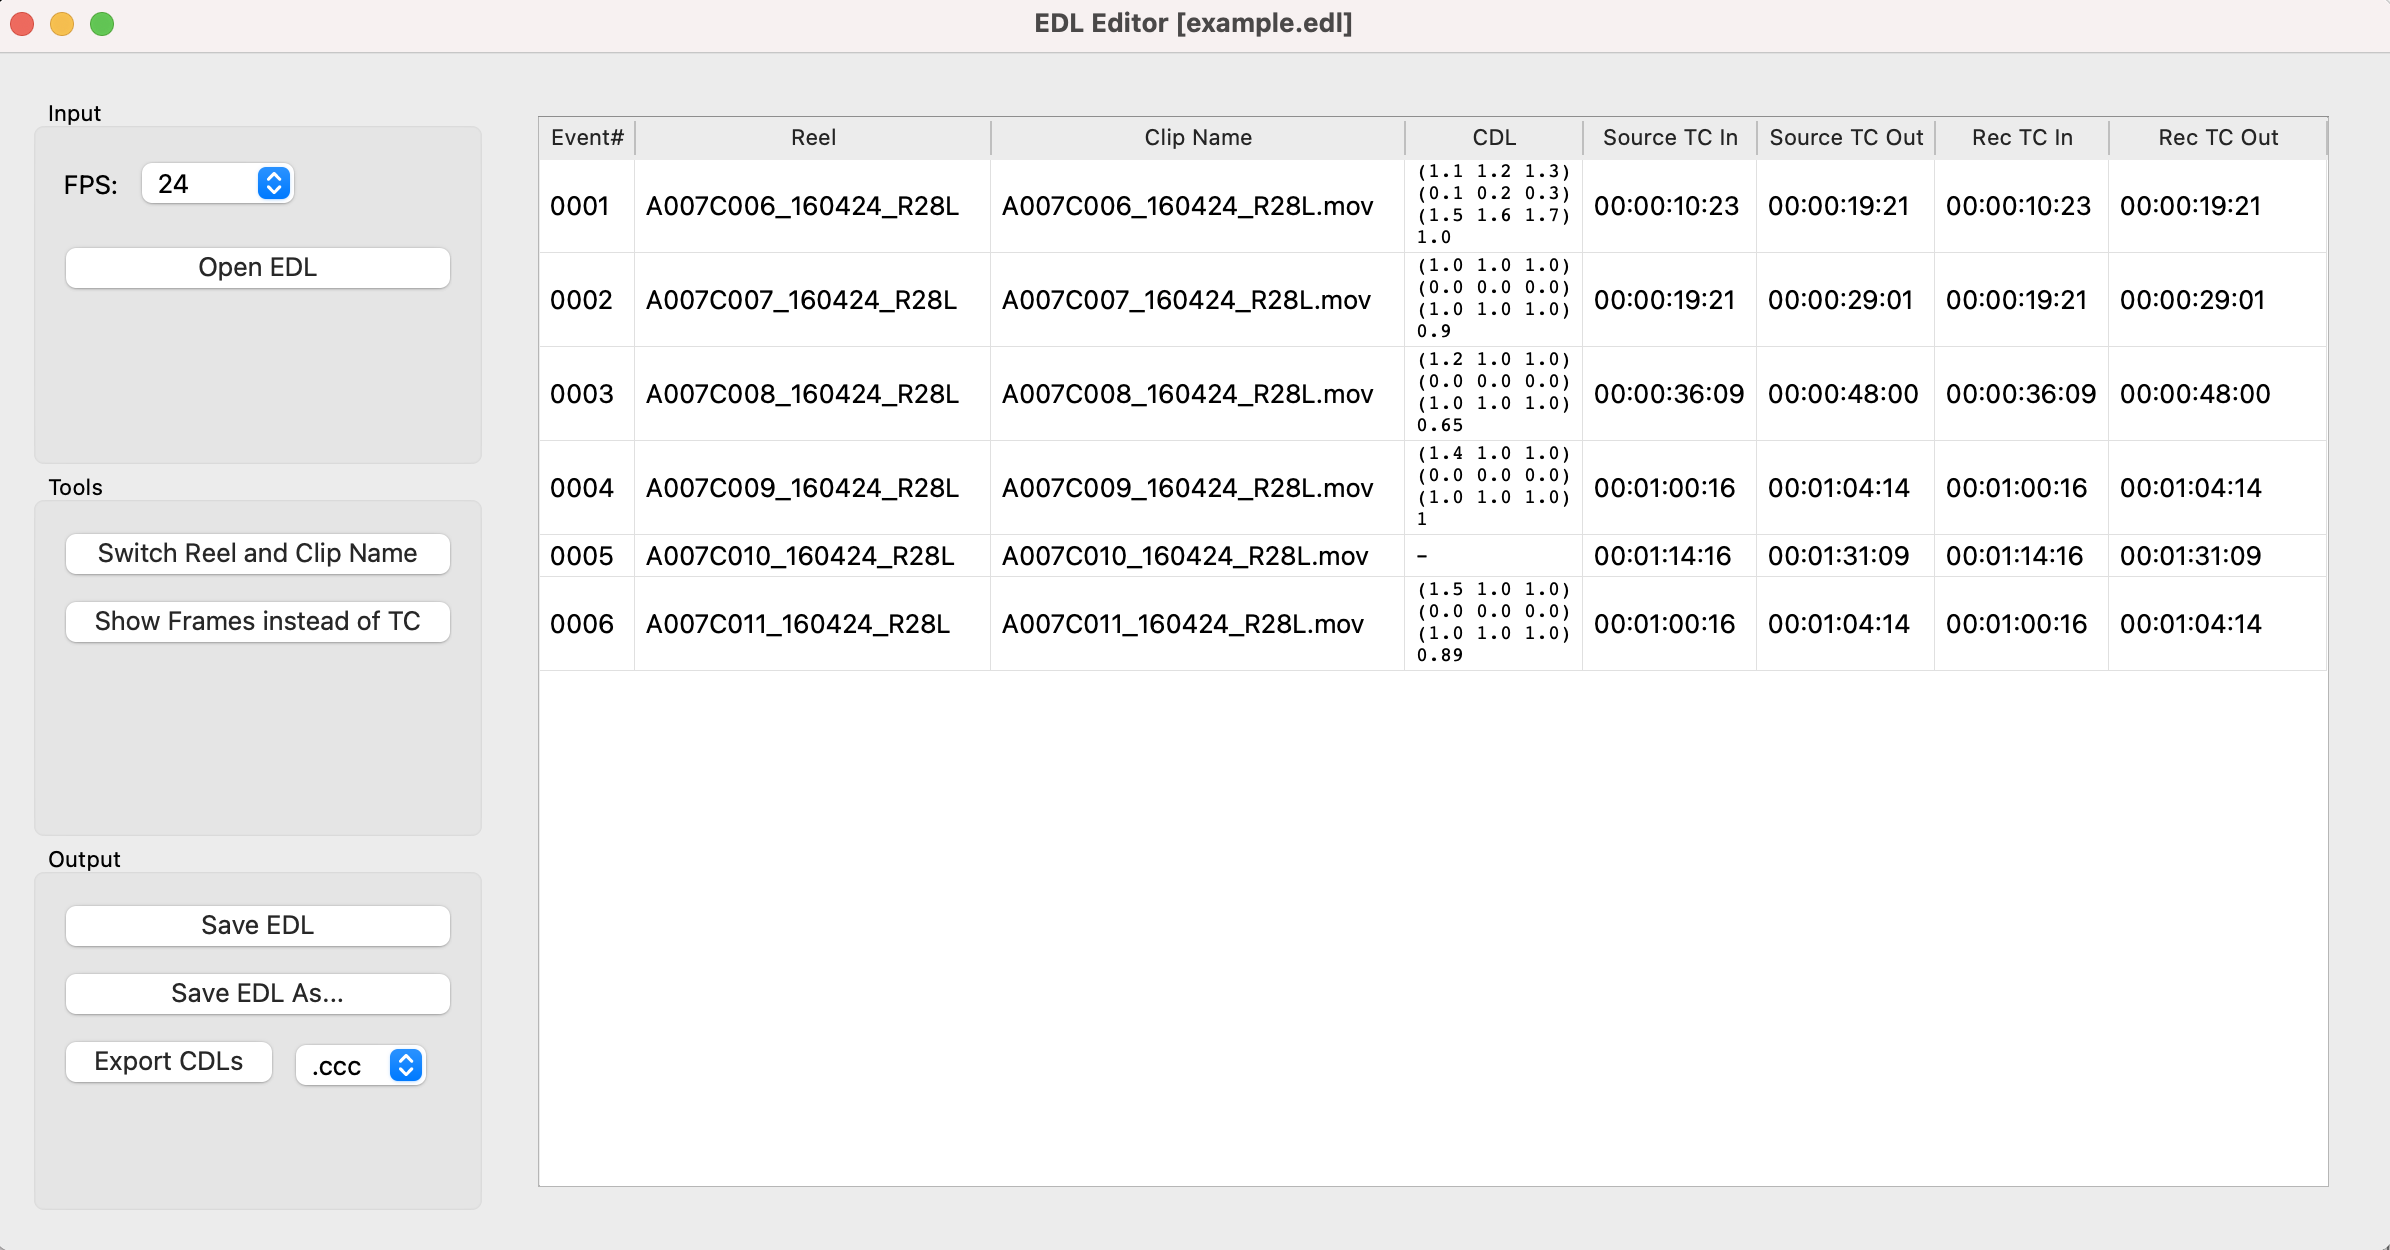
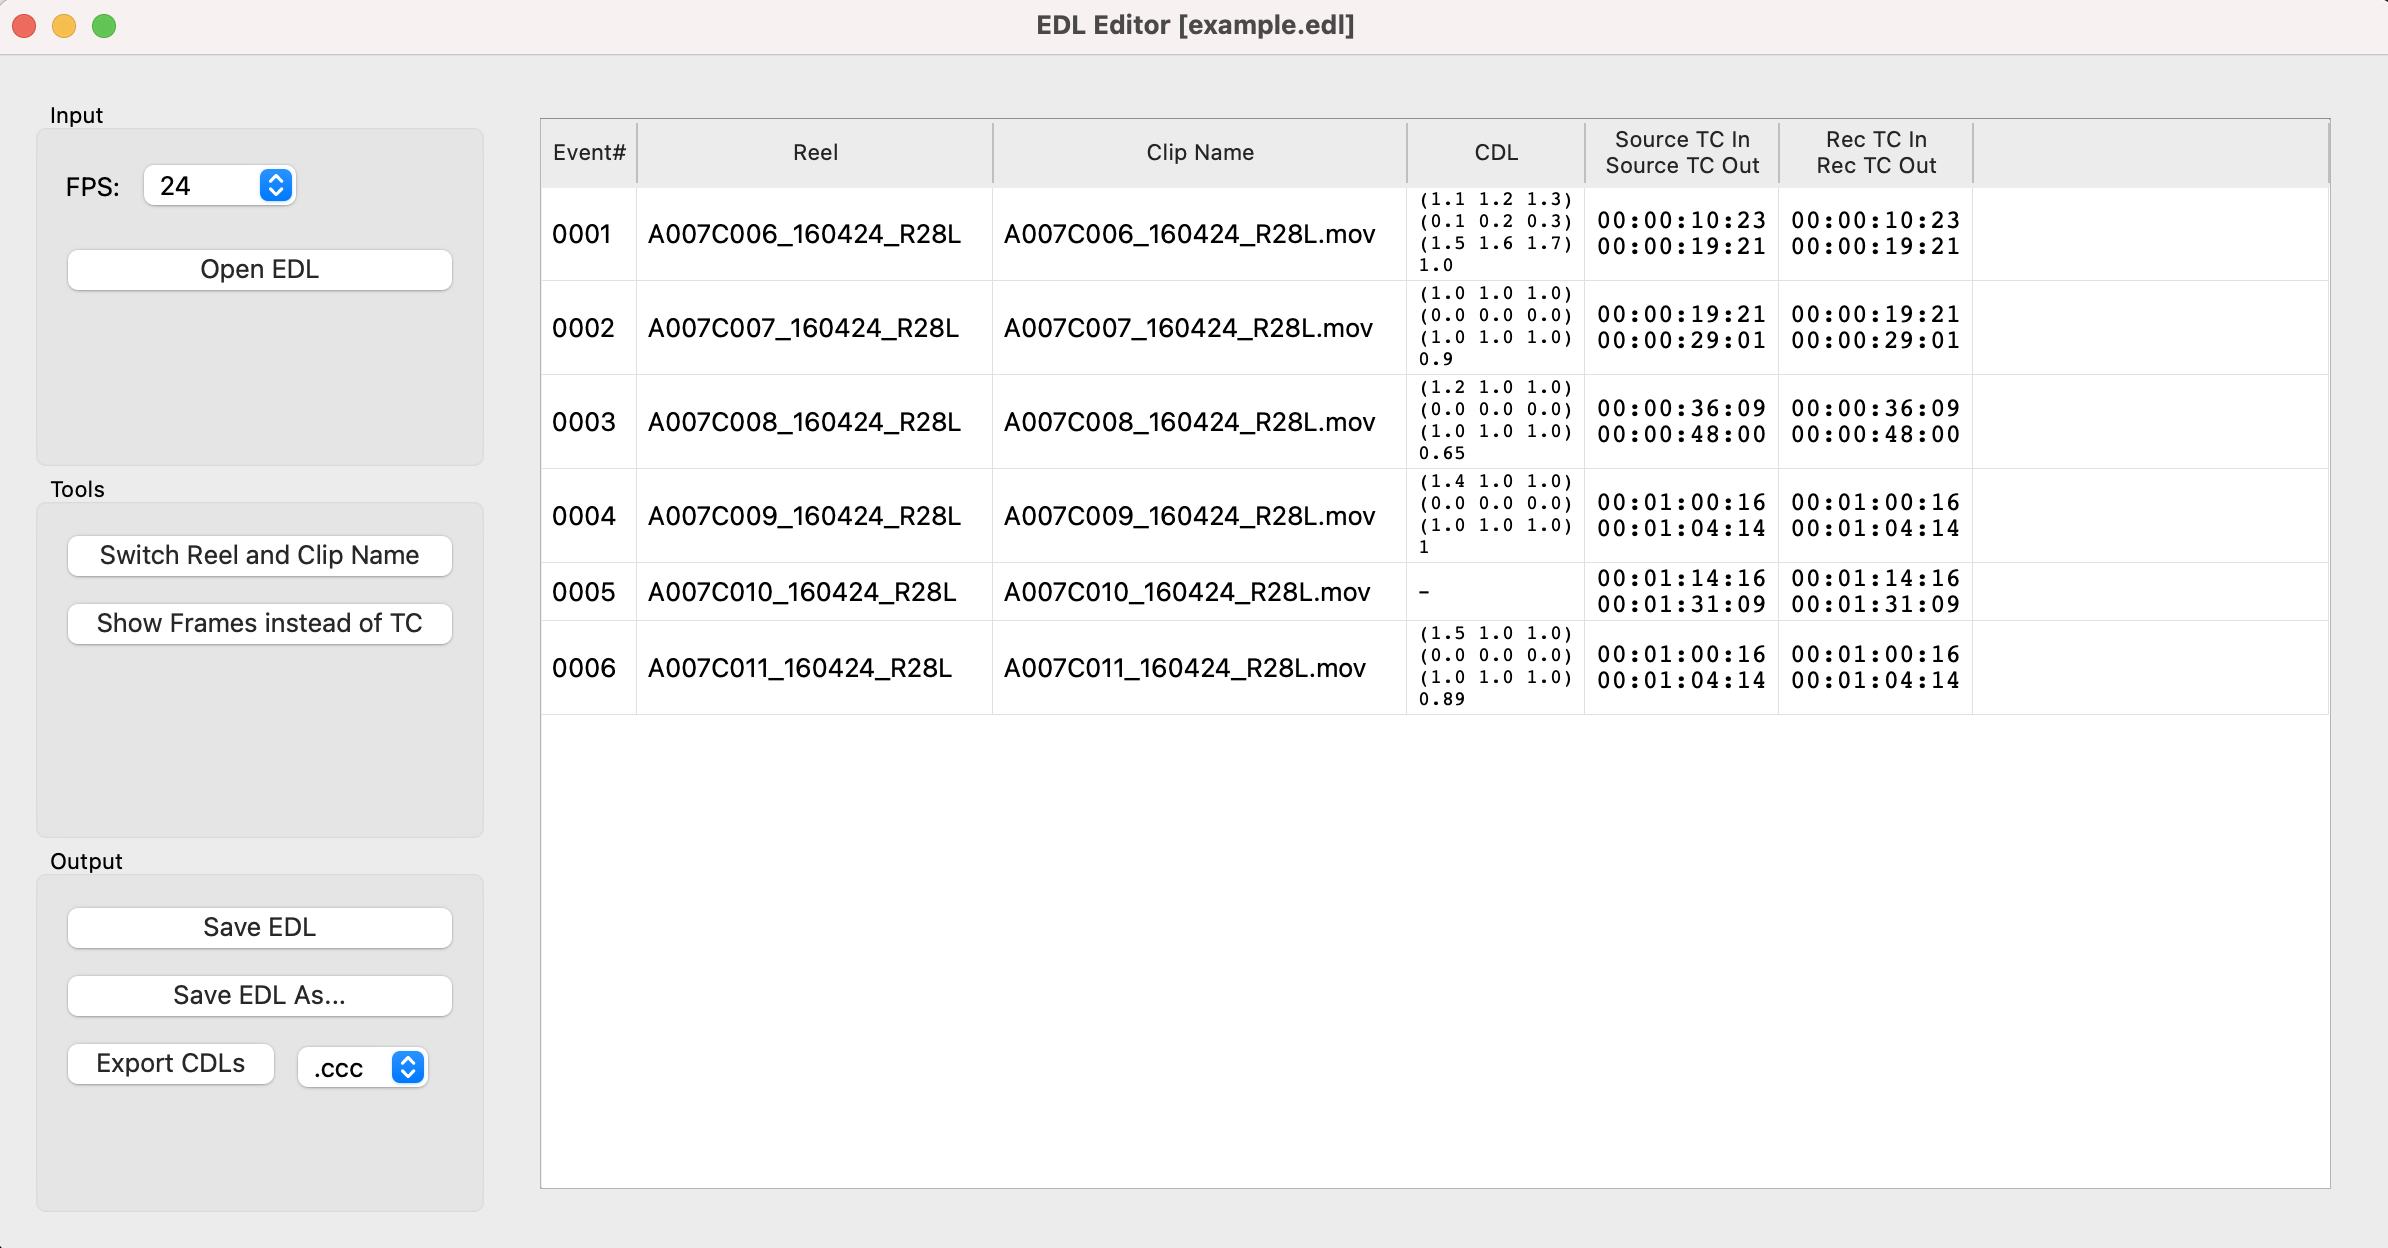
Redesign TC Columns

diff --git a/py_edl_editor/edl_table.py b/py_edl_editor/edl_table.py
@@ -58,10 +58,9 @@ class EdlTable(QtCore.QAbstractTableModel):
         "Reel",
         "Clip Name",
         "CDL",
-        "Source TC In",
-        "Source TC Out",
-        "Rec TC In",
-        "Rec TC Out",    
+        "Source TC In\nSource TC Out",
+        "Rec TC In\nRec TC Out",
+        "",
     ]
 
     def __init__(self):
@@ -139,6 +138,9 @@ class EdlTable(QtCore.QAbstractTableModel):
         
         if role == QtCore.Qt.FontRole and index.column() == 3:
             return QtGui.QFont('Courier', 10)
+        
+        if role == QtCore.Qt.FontRole and index.column() in [4, 5]:
+            return QtGui.QFont('Courier', 13)
 
     def setData(self, index, value, role):
         """Set the role data for the item at index to value.
@@ -214,13 +216,13 @@ class EdlTable(QtCore.QAbstractTableModel):
         if col == 3:
             return str(edl_event.cdl)
         if col == 4:
-            return self._timecode_string(edl_event.src_start_tc)
+            src_start = self._timecode_string(edl_event.src_start_tc)
+            src_end = self._timecode_string(edl_event.src_end_tc)
+            return f"{src_start}\n{src_end}"
         if col == 5:
-            return self._timecode_string(edl_event.src_end_tc)
-        if col == 6:
-            return self._timecode_string(edl_event.rec_start_tc)
-        if col == 7:
-            return self._timecode_string(edl_event.rec_end_tc)
+            rec_start = self._timecode_string(edl_event.rec_start_tc)
+            rec_end = self._timecode_string(edl_event.rec_end_tc)
+            return f"{rec_start}\n{rec_end}"
 
     def _timecode_string(self, timecode):
         """Return String representation of the given Timecode instance.
